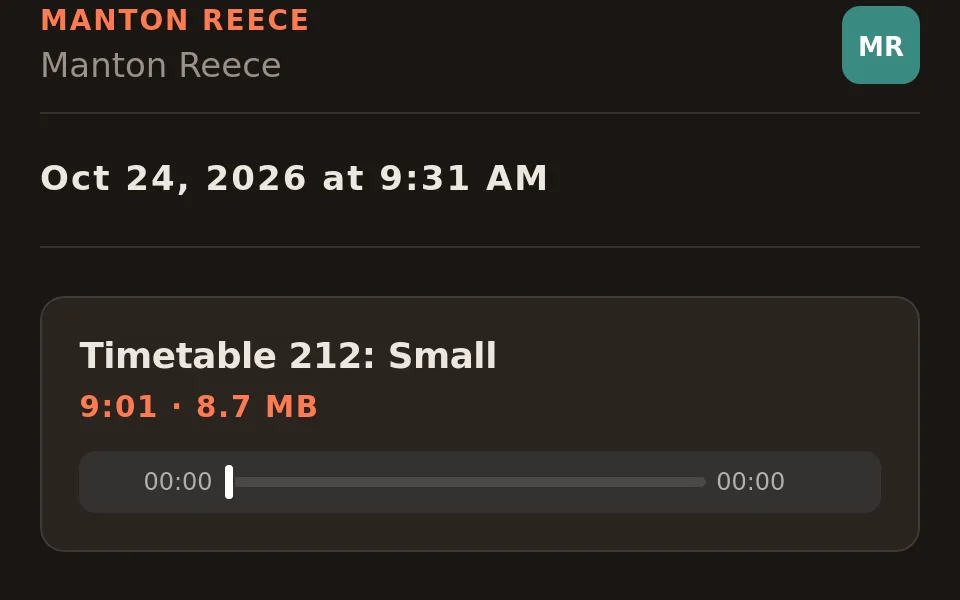
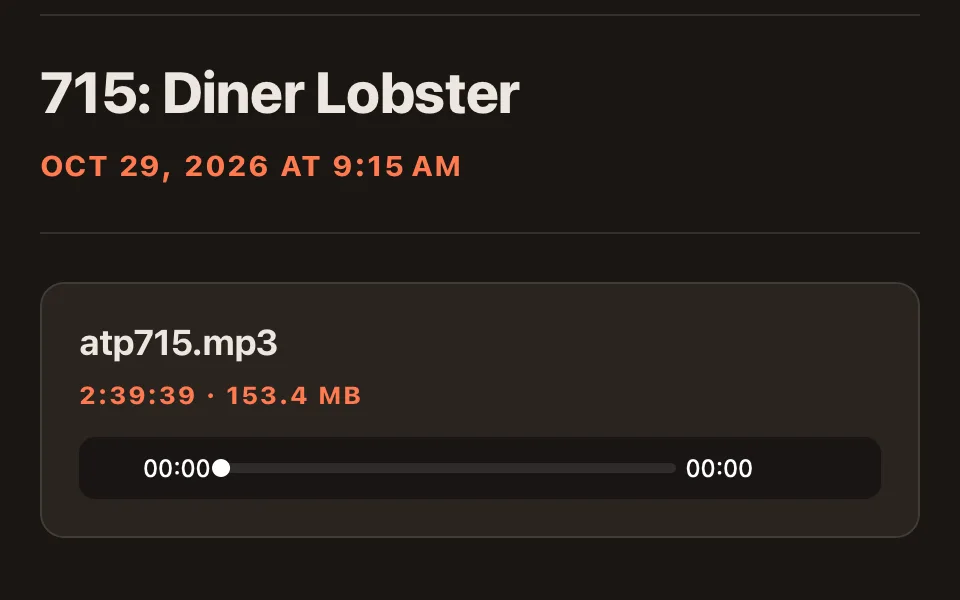
docs(site): reshoot the enclosure tile on macOS

diff --git a/docs/index.html b/docs/index.html
@@ -159,7 +159,7 @@
       <figure class="tile"><picture><source srcset="assets/features/quote-dark.webp" media="(prefers-color-scheme: dark)"><img src="assets/features/quote-light.webp" alt="A pull-quote in a tinted panel with an accent rule, followed by a section heading flagged with a short accent bar." width="960" height="600" loading="lazy"></picture><h3>Pull-quotes and section headings</h3><p>Quotes sit in a tinted panel with an accent rule. A short accent bar marks each section heading, which makes long articles easier to scan.</p></figure>
       <figure class="tile"><picture><source srcset="assets/features/footnote-dark.webp" media="(prefers-color-scheme: dark)"><img src="assets/features/footnote-light.webp" alt="A footnote popover open beneath the paragraph that cites it, showing the note text." width="960" height="600" loading="lazy"></picture><h3>Footnotes that open in place</h3><p>Tap a footnote marker to read the note in a popover instead of jumping to the bottom of the article. Works with Markdown and Substack footnotes, plus about a dozen WordPress plugins.</p></figure>
       <figure class="tile"><picture><source srcset="assets/features/notes-dark.webp" media="(prefers-color-scheme: dark)"><img src="assets/features/notes-light.webp" alt="A section heading and paragraph, then the footnote list under an accent-colored “Notes” label." width="960" height="600" loading="lazy"></picture><h3>A quieter Notes section</h3><p>The footnote list gets a Notes label and smaller, muted type, so it stays out of the way at the end of the article.</p></figure>
-      <figure class="tile"><picture><source srcset="assets/features/enclosure-dark.webp" media="(prefers-color-scheme: dark)"><img src="assets/features/enclosure-light.webp" alt="A podcast episode in Ember: under the dateline, a card with the episode title, its duration and size in vermilion small caps, and an audio player." width="960" height="600" loading="lazy"></picture><h3>Podcasts, video, and photos</h3><p>Audio becomes a card with the episode’s title, length, and size. Video players and episode artwork lead the article, and attached photos follow it as a gallery.</p></figure>
+      <figure class="tile"><picture><source srcset="assets/features/enclosure-dark.webp" media="(prefers-color-scheme: dark)"><img src="assets/features/enclosure-light.webp" alt="A podcast episode in Ember: under its headline and dateline, a card with the episode’s file name, its duration and size in vermilion small caps, and an audio player." width="960" height="600" loading="lazy"></picture><h3>Podcasts, video, and photos</h3><p>Audio becomes a card with the episode’s title, length, and size. Video players and episode artwork lead the article, and attached photos follow it as a gallery.</p></figure>
       <figure class="tile"><img src="assets/features/modes.webp" alt="A pull-quote and section heading split diagonally: light mode on the left, dark mode on the right." width="960" height="600" loading="lazy"><h3>Light and dark, both warm</h3><p>Both modes use a warm background. The accent is vermilion in light mode and a lighter coral in dark mode.</p></figure>
     </div>
     <ul class="more">
